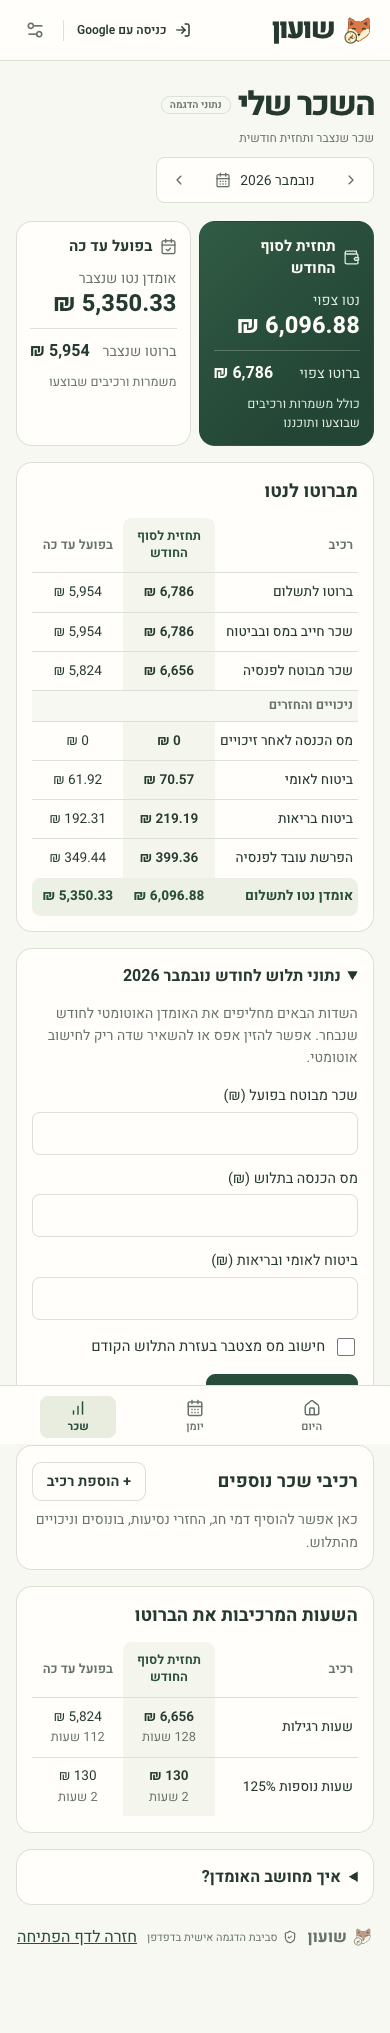
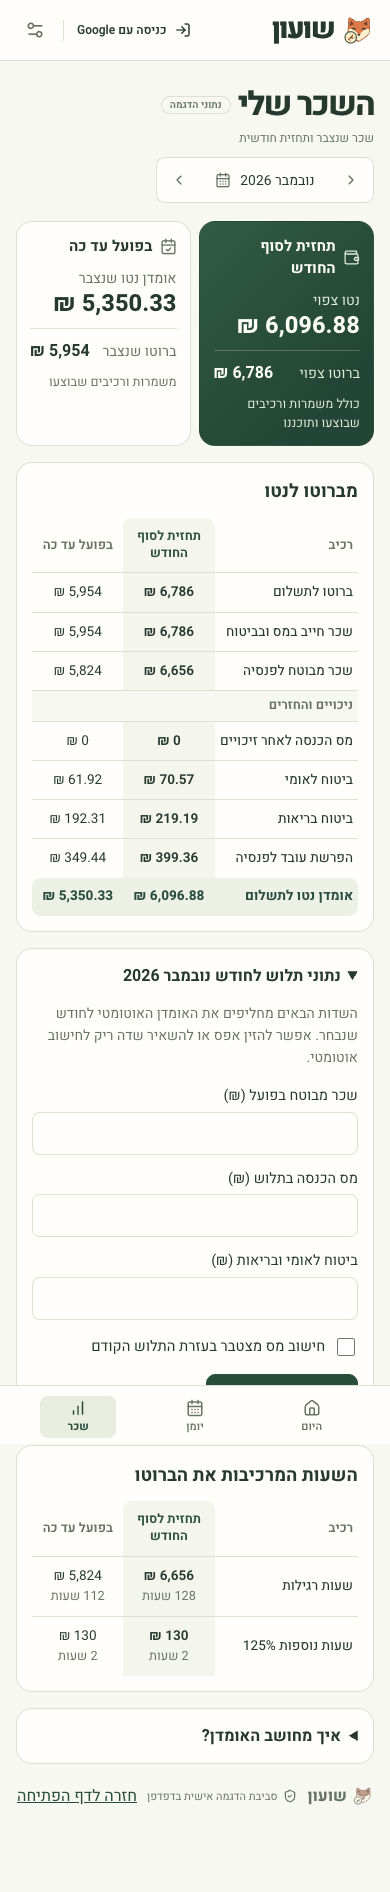
Remove additional pay editor from salary report

diff --git a/src/components/Salary.tsx b/src/components/Salary.tsx
@@ -3,7 +3,6 @@ import type { FormEvent, ReactNode } from 'react'
 import { CalendarCheck, Wallet } from 'lucide-react'
 import { payrollRules2026, salaryReport } from '../domain/net'
 import type {
-  AdjustmentKind,
   PayrollAdjustment,
   PayrollMonth,
   PayrollProfile,
@@ -23,7 +22,6 @@ type SalaryProps = {
   profile: PayrollProfile
   adjustments: PayrollAdjustment[]
   onProfileChange: (profile: PayrollProfile) => Promise<void>
-  onAdjustmentsChange: (items: PayrollAdjustment[]) => Promise<void>
 }
 
 const shekels = new Intl.NumberFormat('he-IL', {
@@ -37,24 +35,6 @@ const monthLabel = (month: string) =>
   new Intl.DateTimeFormat('he-IL', { month: 'long', year: 'numeric', timeZone: 'UTC' }).format(
     new Date(month + '-15T12:00:00Z'),
   )
-const types: Record<AdjustmentKind, string> = {
-  wage: 'תוספת שכר מבוטחת',
-  absence: 'דמי חופשה, מחלה או חג',
-  taxable: 'תוספת חייבת ללא פנסיה',
-  benefit: 'שווי הטבה לצורכי מס',
-  reimbursement: 'החזר הוצאות פטור',
-  deduction: 'ניכוי מהנטו',
-}
-const explanations: Record<AdjustmentKind, string> = {
-  wage: 'הסכום מצטרף לברוטו ולבסיס ההפרשה לפנסיה.',
-  absence:
-    'יש להזין את השכר עבור ההיעדרות לפי הזכאות או התלוש, ולוודא שהשעות אינן רשומות גם כעבודה. הזכאות לחג תלויה בוותק ובימי העבודה, ולמחלה ביתרה הצבורה וברצף ההיעדרות.',
-  taxable: 'הסכום מתווסף לברוטו וחייב במס ובדמי ביטוח. אפשר לרשום כאן נסיעות החייבות במס.',
-  benefit: 'לדוגמה, שווי ארוחות או רכב. הסכום מגדיל את הבסיס למס ולדמי ביטוח בלבד.',
-  reimbursement: 'להחזר שמופיע בתלוש כפטור ממס ומדמי ביטוח. הוא מתווסף ישירות לנטו.',
-  deduction: 'לדוגמה, החזר מקדמה, חלק העובד בקרן השתלמות או דמי ועד. הסכום יורד ישירות מהנטו.',
-}
-
 function PayslipForm({
   month,
   profile,
@@ -156,163 +136,6 @@ function PayslipForm({
         <span role="status">{status}</span>
       </div>
     </form>
-  )
-}
-
-function Adjustments({
-  month,
-  adjustments,
-  onAdjustmentsChange,
-}: Pick<SalaryProps, 'month' | 'adjustments' | 'onAdjustmentsChange'>) {
-  const [editing, setEditing] = useState<PayrollAdjustment | 'new' | null>(null)
-  const [kind, setKind] = useState<AdjustmentKind>('wage')
-  const [busy, setBusy] = useState(false)
-  const [status, setStatus] = useState('')
-  const labelInput = useRef<HTMLInputElement>(null)
-  const rows = adjustments.filter((item) => item.month === month)
-  const old = editing && editing !== 'new' ? editing : null
-  function edit(row: PayrollAdjustment | 'new') {
-    setKind(row === 'new' ? 'wage' : row.kind)
-    setEditing(row)
-    setStatus('')
-    requestAnimationFrame(() => labelInput.current?.focus())
-  }
-  async function persist(next: PayrollAdjustment[], message: string) {
-    setBusy(true)
-    setStatus('')
-    try {
-      await onAdjustmentsChange(next)
-      setEditing(null)
-      setStatus(message)
-    } catch {
-      setStatus('שמירת השינוי נכשלה. אפשר לנסות שוב.')
-    } finally {
-      setBusy(false)
-    }
-  }
-  async function submit(event: FormEvent<HTMLFormElement>) {
-    event.preventDefault()
-    const data = new FormData(event.currentTarget)
-    const label = String(data.get('label')).trim()
-    if (!label) {
-      setStatus('יש להזין שם לרכיב השכר')
-      labelInput.current?.focus()
-      return
-    }
-    const row: PayrollAdjustment = {
-      id: old?.id ?? crypto.randomUUID(),
-      month,
-      label,
-      amount: Number(data.get('amount')),
-      kind,
-      planned: data.has('planned'),
-    }
-    const next = old ? adjustments.map((item) => (item.id === row.id ? row : item)) : [...adjustments, row]
-    await persist(next, 'רכיב השכר נשמר')
-  }
-  return (
-    <section className="salary-card">
-      <div className="salary-section-head">
-        <h2>רכיבי שכר נוספים</h2>
-        <button type="button" className="salary-secondary" disabled={busy} onClick={() => edit('new')}>
-          + הוספת רכיב
-        </button>
-      </div>
-      {rows.length === 0 && !editing && (
-        <p className="salary-help">כאן אפשר להוסיף דמי חג, החזרי נסיעות, בונוסים וניכויים מהתלוש.</p>
-      )}
-      {rows.length > 0 && (
-        <ul className="salary-items">
-          {rows.map((row) => (
-            <li key={row.id}>
-              <div>
-                <strong>{row.label}</strong>
-                <small>
-                  {types[row.kind]} · {row.planned ? 'מתוכנן' : 'בפועל'}
-                </small>
-              </div>
-              <bdi>{money(row.amount)}</bdi>
-              <button
-                type="button"
-                className="salary-link"
-                disabled={busy}
-                aria-label={'עריכת ' + row.label}
-                onClick={() => edit(row)}
-              >
-                עריכה
-              </button>
-            </li>
-          ))}
-        </ul>
-      )}
-      {editing && (
-        <form key={old?.id ?? 'new'} onSubmit={submit} className="salary-form salary-adjust-form">
-          <div className="salary-grid">
-            <label className="salary-field">
-              שם הרכיב
-              <input
-                ref={labelInput}
-                autoComplete="off"
-                name="label"
-                required
-                maxLength={80}
-                defaultValue={old?.label}
-                placeholder="למשל, דמי חג"
-              />
-            </label>
-            <label className="salary-field">
-              סוג הרכיב
-              <select name="kind" value={kind} onChange={(e) => setKind(e.target.value as AdjustmentKind)}>
-                {Object.entries(types).map(([value, text]) => (
-                  <option key={value} value={value}>
-                    {text}
-                  </option>
-                ))}
-              </select>
-            </label>
-          </div>
-          <p className="salary-help">{explanations[kind]}</p>
-          <div className="salary-grid">
-            <NumberField name="amount" title="סכום (₪)" min={0.01} value={old?.amount} required />
-            <label className="salary-check">
-              <input type="checkbox" name="planned" defaultChecked={old?.planned ?? false} /> רכיב מתוכנן
-              לתחזית בלבד
-            </label>
-          </div>
-          <div className="salary-actions">
-            <button disabled={busy} className="salary-primary">
-              שמירת רכיב
-            </button>
-            <button
-              type="button"
-              className="salary-secondary"
-              disabled={busy}
-              onClick={() => setEditing(null)}
-            >
-              ביטול
-            </button>
-            {old && (
-              <button
-                type="button"
-                className="salary-link"
-                disabled={busy}
-                onClick={() =>
-                  void persist(
-                    adjustments.filter((row) => row.id !== old.id),
-                    'רכיב השכר הוסר',
-                  )
-                }
-              >
-                הסרת רכיב
-              </button>
-            )}
-          </div>
-        </form>
-      )}
-      <p className="salary-live" role="status">
-        {status}
-      </p>
-    </section>
   )
 }
 
@@ -494,7 +317,6 @@ export function Salary(props: SalaryProps) {
           onProfileChange={props.onProfileChange}
         />
       </details>
-      <Adjustments key={month} {...props} />
       {bands.length > 0 && (
         <SalaryComparison title="השעות המרכיבות את הברוטו">
           <tbody>
@@ -517,7 +339,7 @@ export function Salary(props: SalaryProps) {
         </p>
         <p>
           מס הכנסה מחושב במדרגות, בניכוי נקודות זיכוי וזיכוי להפקדה מוכרת לפנסיה. בסיס הפנסיה האוטומטי כולל
-          שכר יסוד של שעות רגילות ורכיבים מבוטחים שהוספת. בנתוני התלוש אפשר לשנות את הבסיס לפי ההסכם האישי.
+          שכר יסוד של שעות רגילות ורכיבים מבוטחים שנשמרו בעבר. בנתוני התלוש אפשר לשנות את הבסיס לפי ההסכם האישי.
         </p>
         <p>
           לשכר משתנה אפשר להזין נתונים מצטברים מהתלוש הקודם. במשרה נוספת, בתיאום מס, בזכאות להטבת מס למשמרות

diff --git a/src/components/salary.css b/src/components/salary.css
@@ -3,7 +3,6 @@
   gap: 1rem;
   color: var(--ink, #193c31);
 }
-.salary-section-head,
 .salary-actions,
 .salary-sources {
   display: flex;
@@ -23,7 +22,6 @@
   cursor: pointer;
 }
 .salary-primary,
-.salary-secondary,
 .salary-link {
   font: inherit;
 }
@@ -120,7 +118,6 @@
   font-size: 0.9rem;
 }
 .salary-help,
-.salary-items small,
 .salary-method p {
   color: var(--muted);
   font-size: 0.875rem;
@@ -209,13 +206,6 @@
   font-size: 0.8rem;
   font-weight: 400;
 }
-.salary-items > li {
-  display: flex;
-  align-items: center;
-  gap: 0.65rem;
-  padding: 0.68rem 0;
-  border-bottom: 1px solid var(--line);
-}
 .salary-form {
   display: grid;
   gap: 0.95rem;
@@ -223,8 +213,7 @@
 .salary-settings[open] > summary {
   margin-bottom: 0.9rem;
 }
-.salary-help,
-.salary-live {
+.salary-help {
   margin: 0.55rem 0 0;
 }
 .salary-form .salary-help {
@@ -250,8 +239,7 @@
   font-size: 0.9rem;
   min-width: 0;
 }
-.salary-field input,
-.salary-field select {
+.salary-field input {
   padding: 0.63rem 0.7rem;
   font: inherit;
   color: var(--ink);
@@ -274,26 +262,17 @@
 .salary-sources {
   justify-content: flex-start;
 }
-.salary-actions span,
-.salary-live {
+.salary-actions span {
   font-size: 0.875rem;
 }
-.salary-primary,
-.salary-secondary {
+.salary-primary {
   border-radius: 0.6rem;
   padding: 0.5rem 0.85rem;
   font-weight: 650;
   font-size: 0.9rem;
-}
-.salary-primary {
   background: var(--green, #205543);
   border: 1px solid transparent;
   color: var(--on-green);
-}
-.salary-secondary {
-  background: var(--card, white);
-  border: 1px solid var(--line, #c9d0c5);
-  color: var(--ink);
 }
 .salary-link {
   padding: 0.15rem 0;
@@ -313,27 +292,6 @@
   color: var(--green, #205543);
   text-decoration: underline;
   text-underline-offset: 0.18em;
-}
-.salary-items {
-  padding: 0;
-  margin: 0.5rem 0 0;
-  list-style: none;
-}
-.salary-items li > div {
-  flex: 1;
-  overflow-wrap: anywhere;
-}
-.salary-items strong,
-.salary-items small {
-  display: block;
-}
-.salary-adjust-form {
-  border-top: 1px solid var(--line, #dde0d6);
-  margin-top: 0.9rem;
-  padding-top: 0.9rem;
-}
-.salary-live:empty {
-  display: none;
 }
 @media (max-width: 580px) {
   .salary-card,

diff --git a/src/App.tsx b/src/App.tsx
@@ -494,7 +494,6 @@ function WorkspaceApp({ user }: { user: User | null }) {
               profile={w.payroll}
               adjustments={w.adjustments}
               onProfileChange={(v) => setting('payroll', v)}
-              onAdjustmentsChange={(v) => setting('adjustments', v)}
             />
           </>
         )}

diff --git a/docs/payroll.md b/docs/payroll.md
@@ -36,7 +36,7 @@
 - **מנוחה שבועית.** ברירת המחדל היא מיום שישי ב־**12:00** עד סוף שבת ב־**24:00**, כלומר יום ראשון ב־00:00. רק הזמן בתוך החלון מקבל את תעריפי המנוחה. אפשר לבחור יום מנוחה אחר בשאלון ולשנות את יום ושעת הכניסה ואת שעת היציאה בהגדרות. [ברירת המחדל](../src/data/model.ts)
 - **חגים אוטומטיים.** כשנבחר **חגי ישראל** בשאלון, המערכת מזהה תשעה ימי חג מתוך הלוח העברי וכלל חישוב מועד יום העצמאות: שני ימי ראש השנה, יום הכיפורים, יום ראשון של סוכות, שמיני עצרת ושמחת תורה, יום ראשון של פסח, שביעי של פסח, יום העצמאות ושבועות. חול המועד, חנוכה ופורים אינם מקבלים אוטומטית תעריף חג. בבחירה **חגים אחרים, לפי תאריכים שאבחר**, החישוב משתמש בתאריכים ובחלונות שהוזנו ידנית. [לוח החגים](../src/domain/gross.ts)
 - **חלון החג.** ברירת המחדל היא **18:00 בערב שלפני החג עד 19:00 ביום החג**. שעות אלה הן קירוב קבוע. אפשר לעדכן את שעות ברירת המחדל, להוסיף תאריכי חג ולהגדיר כניסה ויציאה מדויקות לחג מסוים תחת **הגדרות → תעריפים עתידיים, זמני מנוחה וחגים**. [מסך ההגדרות](../src/components/Settings.tsx)
-- **חג שחופף לשבת.** החלק החופף מקבל מכפיל מנוחה או חג פעם אחת. תשלום על יום חג שבו לא עבדת, זכאות נוספת בשל עבודה בחג, השלמת שכר בערב חג, חופשה ומחלה מוזנים לפי הנתונים שבידך תחת **שכר → רכיבי שכר נוספים**.
+- **חג שחופף לשבת.** החלק החופף מקבל מכפיל מנוחה או חג פעם אחת. תשלום על יום חג שבו לא עבדת, זכאות נוספת בשל עבודה בחג, השלמת שכר בערב חג, חופשה ומחלה טעונים בדיקה לפי התלוש וההסכם.
 
 ## ברוטו, נטו ותחזית חודשית
 
@@ -64,5 +64,7 @@
 | --- | --- |
 | **הגדרות → שאלון השכר שלי** | שכר לשעה, שבוע של חמישה או שישה ימים, יום מנוחה, לוח חגים, תוספת לילה ופרטים אישיים לאומדן נקודות הזיכוי, הביטוח והפנסיה |
 | **הגדרות → תעריפים עתידיים, זמני מנוחה וחגים** | תעריף לפי תאריך, חלון מנוחה שבועית, שעות כניסת ויציאת חג, מכסת ערב חג, תאריכי חג נוספים וחלונות מדויקים |
-| **שכר → פרטי שכר וניכויים** | נקודות זיכוי, אחוז הפרשת עובד לפנסיה והחלת תקרת פנסיה חלים על כל החודשים. אפשר להזין גם שכר מבוטח, מס הכנסה וביטוח לאומי ובריאות לפי תלוש לחודש שנבחר, או להזין נתונים מצטברים מהתלוש הקודם לחישוב מס מצטבר |
-| **שכר → רכיבי שכר נוספים** | תוספת מבוטחת, חופשה/מחלה/חג, תוספת חייבת ללא פנסיה, שווי הטבה, החזר פטור או ניכוי מהנטו |
+| **הגדרות → פרטי שכר וניכויים** | נקודות זיכוי, אחוז הפרשת עובד לפנסיה והחלת תקרת פנסיה לכל החודשים |
+| **שכר → נתוני תלוש לחודש שנבחר** | שכר מבוטח, מס הכנסה, ביטוח לאומי ובריאות, ונתונים מהתלוש הקודם לחישוב מס מצטבר |
+
+רכיבי שכר שכבר נשמרו ממשיכים להיכלל בחישוב עבור החודש שאליו שויכו.

diff --git a/README.md b/README.md
@@ -49,7 +49,7 @@
 
 ## איך מחושב אומדן השכר
 
-שועון מחשב שכר לעבודה שעתית אצל מעסיק אחד בישראל לפי התעריף שהיה בתוקף ביום העבודה. הברוטו מביא בחשבון שעות נוספות, עבודה בלילה, שבת וחגים והפסקות ללא תשלום. אומדן הנטו משתמש בכללי 2026 ומפרט מס הכנסה, נקודות זיכוי, ביטוח לאומי ובריאות והפרשת עובד לפנסיה. אפשר לעדכן נתונים לפי התלוש, למשל ניכויים ורכיבי שכר נוספים. [הנחות החישוב, דוגמאות ומקורות](docs/payroll.md)
+שועון מחשב שכר לעבודה שעתית אצל מעסיק אחד בישראל לפי התעריף שהיה בתוקף ביום העבודה. הברוטו מביא בחשבון שעות נוספות, עבודה בלילה, שבת וחגים והפסקות ללא תשלום. אומדן הנטו משתמש בכללי 2026 ומפרט מס הכנסה, נקודות זיכוי, ביטוח לאומי ובריאות והפרשת עובד לפנסיה. אפשר לעדכן נתונים לפי התלוש, למשל שכר מבוטח ומס הכנסה. [הנחות החישוב, דוגמאות ומקורות](docs/payroll.md)
 
 משמרת מתוכננת מופיעה בתחזית עד שעת הסיום שלה, ואז עוברת לחישוב בפועל. אם המשמרת בוטלה, אפשר למחוק אותה מהיומן. משמרת שנרשמת בשעון הנוכחות נכנסת לחישוב ומציגה את השכר שלה אחרי הסיום והשמירה.
 
